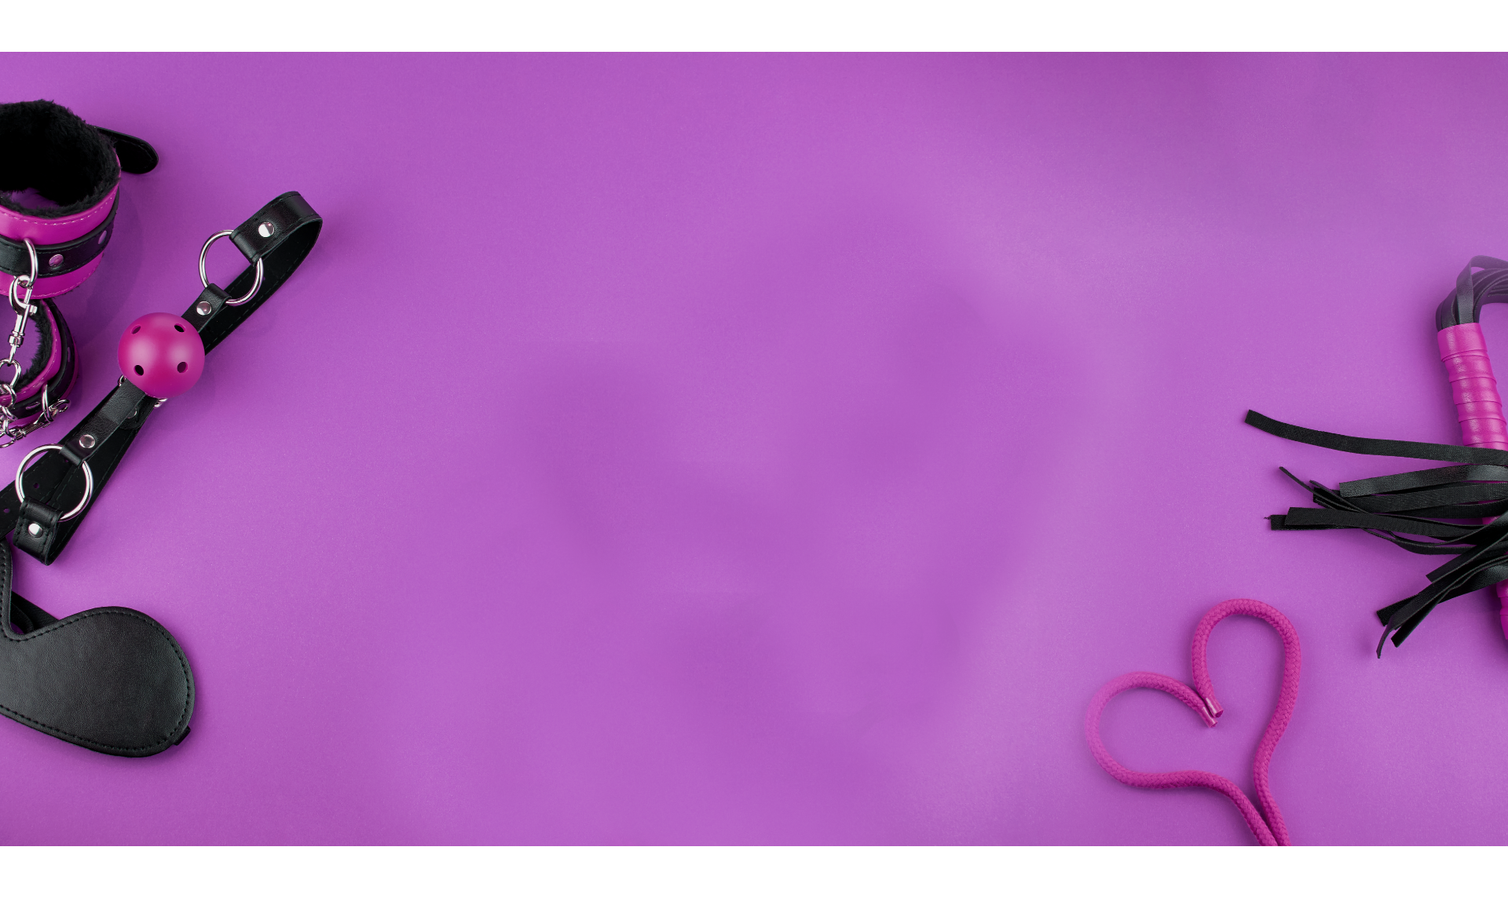
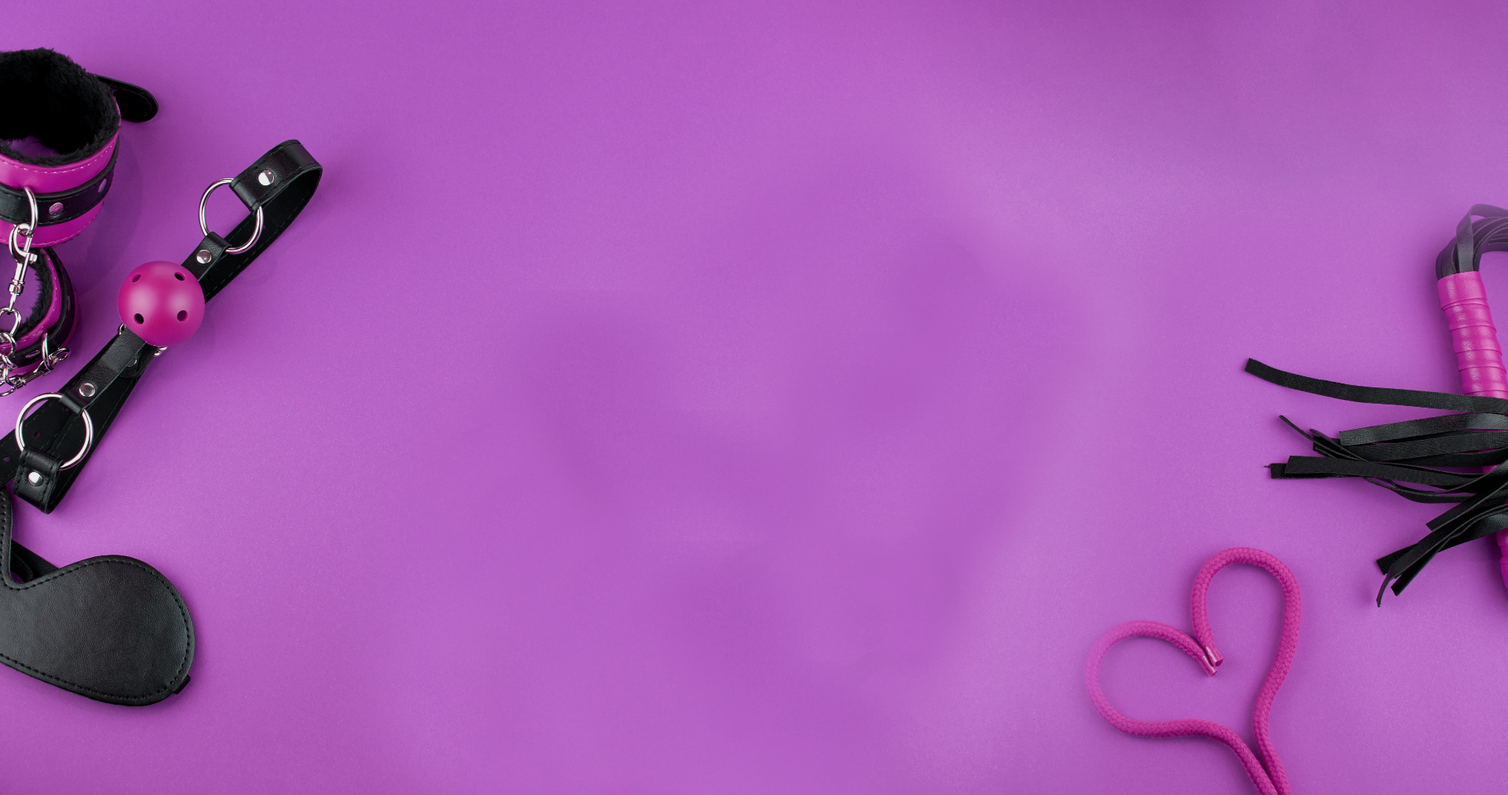
responsive

Changed region(s): [[0.0, 0.0, 1.0, 1.0], [0.8438, 0.2451, 1.0, 0.7964], [0.8125, 0.4595, 0.875, 0.4901]]

diff --git a/index.html b/index.html
@@ -12,7 +12,7 @@
 
 <body>
     <script src="assets/js/header.js"></script>
-    <section class="bg-dark py-md-5 py-3 banner">
+    <section class="bg-dark py-md-5 py-4 banner">
         <div class="container">
             <div class="row justify-content-center mx-auto align-items-center py-md-5 ">
                 <div class="col-xxl-8 col-xl-10 col-12 text-center py-md-5 ">
@@ -23,14 +23,14 @@
                         </p>
                     </h1>
 
-                    <a href="javascript:void(0)" class="btn-1 text-white fs-5 px-md-5 px-3 py-3">View more</a>
+                    <a href="javascript:void(0)" class="btn-1 text-white fs-5 px-md-5 px-3 py-md-3 py-2 d-inline-block">View more</a>
 
                 </div>
             </div>
         </div>
     </section>
 
-    <section class=" py-md-5 py-3">
+    <section class=" py-md-5 py-4">
         <div class="container">
             <div class="row justify-content-center mx-auto align-items-center py-md-5">
                 <div class="col-xxl-4 col-xl-5 col-md-6">
@@ -52,14 +52,14 @@
                         also available to perform in these short films. Check out our upcoming actors and submit your idea on our Customs page. Let us help bring your fantasy to life!
                     </p>
 
-                    <a href="javascript:void(0)" class="btn-1 text-white fs-5 px-md-5 px-3 py-3">View more</a>
+                    <a href="javascript:void(0)" class="btn-1 text-white fs-5 px-md-5 px-3 py-md-3 py-2 d-inline-block">View more</a>
 
                 </div>
             </div>
         </div>
     </section>
 
-    <section class="bg-green-voilet-1 py-md-5 py-3">
+    <section class="bg-green-voilet-1 py-md-5 py-4">
         <div class="container">
             <div class="row justify-content-center align-items-center py-md-5">
                 <div class="col-xxl-8 col-xl-10 col-12 text-center text-white">
@@ -101,8 +101,8 @@
                         </div>
                     </div>
 
-                    <a href="javascript:void(0)" class="btn-1 text-white fs-5 px-md-5 px-3 py-3">View more</a>
-                    <a href="jaavscript:void(0)" class="btn-3 fs-5 px-md-5 px-3 py-3 color-green-voilet-1">Custom Order</a>
+                    <a href="javascript:void(0)" class="btn-1 text-white fs-5 px-md-5 px-3 py-md-3 py-2 d-inline-block">View more</a>
+                    <a href="jaavscript:void(0)" class="btn-3 fs-5 px-md-5 px-3 py-md-3 py-2 color-green-voilet-1 d-inline-block">Custom Order</a>
 
                 </div>
             </div>
@@ -113,11 +113,11 @@
         <div class="container">
             <div class="row justify-content-center align-items-center py-md-5">
                 <div class="col-xxl-8 col-xl-10 col-12 text-center">
-                    <p class="fs-2 mb-2 ">
-                        recently
+                    <p class="fs-2 mb-md-2 mb-0 ">
+                        Recently
                     </p>
                     <p class="display-1 mb-md-5">
-                        released clips
+                        Released clips
                     </p>
 
                     <div class="clip-slider">
@@ -164,7 +164,7 @@
         </div>
     </section>
 
-    <section class="bg-dark py-md-5 py-3">
+    <section class="bg-dark py-md-5 py-4">
         <div class="container">
             <div class="row justify-content-center align-items-center py-md-5">
                 <div class="col-xxl-8 col-xl-10 col-12 text-center text-white">
@@ -175,14 +175,14 @@
                         upcoming shoot
                     </p>
                     <p class="mb-0">
-                        <a href="jaavscript:void(0)" class="btn-3 fs-5 px-md-5 px-3 py-3 color-green-voilet-1">View more</a>
+                        <a href="jaavscript:void(0)" class="btn-3 fs-5 px-md-5 px-3 py-md-3 py-2 color-green-voilet-1 d-inline-block">View more</a>
                     </p>
                 </div>
             </div>
         </div>
     </section>
 
-    <section class="bg-light py-md-5 py-3">
+    <section class="bg-light py-md-5 py-4">
         <div class="container">
             <div class="row justify-content-center align-items-center">
                 <div class="col-xxl-8 col-xl-10 col-12 text-center">
@@ -216,13 +216,13 @@
                 <div class="col-xxl-8 col-xl-10 col-12">
                     <div class="row row-cols-md-2 row-cols-1 justify-content-center align-items-center mb-md-3">
                         <div class="col">
-                            <p class="mb-0 display-5">frequently asked
+                            <p class="mb-md-0  display-5">frequently asked
                                 <br>
                                 <span class="display-1">questions</span>
                             </p>
                         </div>
                         <div class="col">
-                            <div class="card card-body rounded-16 box-shadow-1 border-0 p-md-4 p-2">
+                            <div class="card card-body rounded-16 box-shadow-1 border-0 p-md-4 p-2 mb-md-0 mb-3">
                                 <span class="fw-600"><img src="assets/images/question-circle.svg" class="img-fluid pe-3" alt="">  Who is Available? When?</span>
                                 <p class="mb-0 py-2">
                                     All the information that you need is right on our Upcoming Talent Page. We have scheduled shoots and actors on a waitlist.
@@ -230,9 +230,9 @@
                             </div>
                         </div>
                     </div>
-                    <div class="row row-cols-md-2 row-cols-1 justify-content-center align-items-center">
+                    <div class="row row-cols-md-2 row-cols-1 justify-content-center align-items-center ">
                         <div class="col">
-                            <div class="card card-body rounded-16 box-shadow-1 border-0 p-md-4 p-2">
+                            <div class="card card-body rounded-16 box-shadow-1 border-0 p-md-4 p-2 mb-md-0 mb-3">
                                 <span class="fw-600"><img src="assets/images/question-circle.svg" class="img-fluid pe-3" alt="">  Who is Available? When?</span>
                                 <p class="mb-0 py-2">
                                     All the information that you need is right on our Upcoming Talent Page. We have scheduled shoots and actors on a waitlist.
@@ -240,7 +240,7 @@
                             </div>
                         </div>
                         <div class="col">
-                            <div class="card card-body rounded-16 box-shadow-1 border-0 p-md-4 p-2">
+                            <div class="card card-body rounded-16 box-shadow-1 border-0 p-md-4 p-2 mb-md-0 mb-3">
                                 <span class="fw-600"><img src="assets/images/question-circle.svg" class="img-fluid pe-3" alt="">  Who is Available? When?</span>
                                 <p class="mb-0 py-2">
                                     All the information that you need is right on our Upcoming Talent Page. We have scheduled shoots and actors on a waitlist.
@@ -253,29 +253,29 @@
             </div>
             <div class="col-12">
                 <p class="mb-0 text-center mt-md-4 mt-2">
-                    <a href="javascript:void(0)" class="btn-1 text-white fs-5 px-md-5 px-3 py-3">View more</a>
+                    <a href="javascript:void(0)" class="btn-1 text-white fs-5 px-md-5 px-3 py-md-3 py-2">View more</a>
                 </p>
             </div>
         </div>
     </section>
 
-    <section class="bg-contact py-md-5 py-3">
+    <section class="bg-contact py-md-5 py-4">
         <div class="container">
             <div class="row justify-content-center align-items-center">
                 <div class="col-xxl-8 col-xl-10 col-12 text-center">
                     <p class="display-6 fw-600 text-white">Contact Us</p>
-                    <form class="row row-cols-md-3">
+                    <form class="row row-cols-md-3 row-cols-1">
                         <div class="my-2 col">
-                            <input type="text" class="form-control p-md-3 p-2 border-0 rounded-32" id="" placeholder="First Name*">
+                            <input type="text" class="form-control p-3 border-0 rounded-32" id="" placeholder="First Name*">
                         </div>
                         <div class="my-2 col">
-                            <input type="email" class="form-control p-md-3 p-2 border-0 rounded-32" id="" placeholder="Email*">
+                            <input type="email" class="form-control p-3 border-0 rounded-32" id="" placeholder="Email*">
                         </div>
                         <div class="my-2 col">
-                            <input type="text" class="form-control p-md-3 p-2 border-0 rounded-32" id="" placeholder="Subject*">
+                            <input type="text" class="form-control p-3 border-0 rounded-32" id="" placeholder="Subject*">
                         </div>
                         <div class="my-2 col-12">
-                            <textarea rows="10" class="form-control p-md-3 p-2 border-0 rounded-32" id="" placeholder="Type your message here!"></textarea>
+                            <textarea rows="10" class="form-control p-3 border-0 rounded-32" id="" placeholder="Type your message here!"></textarea>
                             <button type="submit" class="btn-2 w-100 fs-2 my-md-4 my-2  text-white border-0 py-2">Connect with us now</button>
                         </div>
 

diff --git a/reviews.html b/reviews.html
@@ -31,7 +31,7 @@
                     <p class=" display-1 text-center">Client Reviews</p>
                     <div class="row row-cols-md-3 row-cols-1 justify-content-center align-items-center mb-md-3">
                         <div class="col">
-                            <div class="card card-body rounded-16 box-shadow-1 border-0 p-md-4 p-2 mb-md-4 mb-2 text-center">
+                            <div class="card card-body rounded-16 box-shadow-1 border-0 p-md-4 p-2 mb-md-4 mb-3 text-center">
                                 <p class="text-center">
                                     <img src="assets/images/star.svg" class="w-50" alt="star">
                                 </p>
@@ -42,7 +42,7 @@
                             </div>
                         </div>
                         <div class="col">
-                            <div class="card card-body rounded-16 box-shadow-1 border-0 p-md-4 p-2 mb-md-4 mb-2 text-center">
+                            <div class="card card-body rounded-16 box-shadow-1 border-0 p-md-4 p-2 mb-md-4 mb-3 text-center">
                                 <p class="text-center">
                                     <img src="assets/images/star.svg" class="w-50" alt="star">
                                 </p>
@@ -53,7 +53,7 @@
                             </div>
                         </div>
                         <div class="col">
-                            <div class="card card-body rounded-16 box-shadow-1 border-0 p-md-4 p-2 mb-md-4 mb-2 text-center">
+                            <div class="card card-body rounded-16 box-shadow-1 border-0 p-md-4 p-2 mb-md-4 mb-3 text-center">
                                 <p class="text-center">
                                     <img src="assets/images/star.svg" class="w-50" alt="star">
                                 </p>
@@ -64,7 +64,7 @@
                             </div>
                         </div>
                         <div class="col">
-                            <div class="card card-body rounded-16 box-shadow-1 border-0 p-md-4 p-2 mb-md-4 mb-2 text-center">
+                            <div class="card card-body rounded-16 box-shadow-1 border-0 p-md-4 p-2 mb-md-4 mb-3 text-center">
                                 <p class="text-center">
                                     <img src="assets/images/star.svg" class="w-50" alt="star">
                                 </p>
@@ -75,7 +75,7 @@
                             </div>
                         </div>
                         <div class="col">
-                            <div class="card card-body rounded-16 box-shadow-1 border-0 p-md-4 p-2 mb-md-4 mb-2 text-center">
+                            <div class="card card-body rounded-16 box-shadow-1 border-0 p-md-4 p-2 mb-md-4 mb-3 text-center">
                                 <p class="text-center">
                                     <img src="assets/images/star.svg" class="w-50" alt="star">
                                 </p>
@@ -86,7 +86,7 @@
                             </div>
                         </div>
                         <div class="col">
-                            <div class="card card-body rounded-16 box-shadow-1 border-0 p-md-4 p-2 mb-md-4 mb-2 text-center">
+                            <div class="card card-body rounded-16 box-shadow-1 border-0 p-md-4 p-2 mb-md-4 mb-3 text-center">
                                 <p class="text-center">
                                     <img src="assets/images/star.svg" class="w-50" alt="star">
                                 </p>
@@ -97,7 +97,7 @@
                             </div>
                         </div>
                         <div class="col">
-                            <div class="card card-body rounded-16 box-shadow-1 border-0 p-md-4 p-2 mb-md-4 mb-2 text-center">
+                            <div class="card card-body rounded-16 box-shadow-1 border-0 p-md-4 p-2 mb-md-4 mb-3 text-center">
                                 <p class="text-center">
                                     <img src="assets/images/star.svg" class="w-50" alt="star">
                                 </p>
@@ -108,7 +108,7 @@
                             </div>
                         </div>
                         <div class="col">
-                            <div class="card card-body rounded-16 box-shadow-1 border-0 p-md-4 p-2 mb-md-4 mb-2 text-center">
+                            <div class="card card-body rounded-16 box-shadow-1 border-0 p-md-4 p-2 mb-md-4 mb-3 text-center">
                                 <p class="text-center">
                                     <img src="assets/images/star.svg" class="w-50" alt="star">
                                 </p>
@@ -119,7 +119,7 @@
                             </div>
                         </div>
                         <div class="col">
-                            <div class="card card-body rounded-16 box-shadow-1 border-0 p-md-4 p-2 mb-md-4 mb-2 text-center">
+                            <div class="card card-body rounded-16 box-shadow-1 border-0 p-md-4 p-2 mb-md-4 mb-3 text-center">
                                 <p class="text-center">
                                     <img src="assets/images/star.svg" class="w-50" alt="star">
                                 </p>

diff --git a/assets/js/footer.js b/assets/js/footer.js
@@ -1,1 +1,1 @@
-document.writeln(' <footer class="bg-dark pt-md-5 py-3"> <div class="container"> <div class="row justify-content-center align-items-center mx-auto text-center"> <div class="col text-center"> <img src="assets/images/logo.svg" class="img-fluid" alt=""> <div class="nav text-center justify-content-center py-3"> <a href="index.html" class="text-white d-inline-block px-md-4 px-2">Home</a> <a href="video.html" class="text-white d-inline-block px-md-4 px-2">Videos </a> <a href="faqs.html" class="text-white d-inline-block px-md-4 px-2">FAQ’s</a> <a href="reviews.html" class="text-white d-inline-block px-md-4 px-2">Reviews</a> <a href="custom.html" class="text-white d-inline-block px-md-4 px-2">Customs</a> <a href="javascript:void(0)" class="text-white d-inline-block px-md-4 px-2">Newsletter Sign Up</a> <a href="contact.html" class="text-white d-inline-block px-md-4 px-2">Contact Us</a> </div><div class="social py-md-4 py-3 mb-md-5 mb-0"> <a href="javascript:void(0)" target="_blank" class="text-white d-inline-block px-md-3 px-2"><img src="assets/images/fb.svg" class="img-fluid" alt=""></a> <a href="javascript:void(0)" target="_blank" class="text-white d-inline-block px-md-3 px-2"><img src="assets/images/insta.svg" class="img-fluid" alt=""></a> <a href="javascript:void(0)" target="_blank" class="text-white d-inline-block px-md-3 px-2"><img src="assets/images/twitter.svg" class="img-fluid" alt=""></a> <a href="javascript:void(0)" target="_blank" class="text-white d-inline-block px-md-3 px-2"><img src="assets/images/mail.svg" class="img-fluid" alt=""></a> </div><p class="border-top text-white mb-0 py-3"> 2022 Fetishland Studios. All rights reserved. </p></div></div></div></footer>');
+document.writeln(' <footer class="bg-dark pt-md-5 py-3"> <div class="container"> <div class="row justify-content-center align-items-center mx-auto text-center"> <div class="col text-center"> <img src="assets/images/logo.svg" class="img-fluid" alt=""> <div class="nav flex-md-row flex-column text-center justify-content-center py-3"> <a href="index.html" class="text-white d-inline-block px-md-4 px-2">Home</a> <a href="video.html" class="text-white d-inline-block px-md-4 px-2">Videos </a> <a href="faqs.html" class="text-white d-inline-block px-md-4 px-2">FAQ’s</a> <a href="reviews.html" class="text-white d-inline-block px-md-4 px-2">Reviews</a> <a href="custom.html" class="text-white d-inline-block px-md-4 px-2">Customs</a> <a href="javascript:void(0)" class="text-white d-inline-block px-md-4 px-2">Newsletter Sign Up</a> <a href="contact.html" class="text-white d-inline-block px-md-4 px-2">Contact Us</a> </div><div class="d-flex justify-content-center social py-md-4 py-3 mb-md-5 mb-0"> <a href="javascript:void(0)" target="_blank" class="text-white d-inline-block px-md-3 px-2"><img src="assets/images/fb.svg" class="img-fluid" alt=""></a> <a href="javascript:void(0)" target="_blank" class="text-white d-inline-block px-md-3 px-2"><img src="assets/images/insta.svg" class="img-fluid" alt=""></a> <a href="javascript:void(0)" target="_blank" class="text-white d-inline-block px-md-3 px-2"><img src="assets/images/twitter.svg" class="img-fluid" alt=""></a> <a href="javascript:void(0)" target="_blank" class="text-white d-inline-block px-md-3 px-2"><img src="assets/images/mail.svg" class="img-fluid" alt=""></a> </div><p class="border-top text-white mb-0 py-3"> 2022 Fetishland Studios. All rights reserved. </p></div></div></div></footer>');

diff --git a/custom.html b/custom.html
@@ -16,26 +16,26 @@
     <section class="pt-md-5 mt-md-5 py-0 mt-3">
         <div class="container">
             <div class="row justify-content-center align-items-center mt-md-5 ">
-                <div class="col-xl-10 col-12 mt-md-5 border-bottom pb-md-5">
+                <div class="col-xl-10 col-12 mt-md-5 border-bottom pb-md-5 pb-3">
                     <div class="row row-cols-md-2 row-cols-1">
                         <div class="col">
                             <img src="assets/images/box.png" width="100%" height="550" class="rounded-16" alt="box">
                         </div>
                         <div class="col">
-                            <h2 class="display-4">Carmen Valentina</h2>
-                            <h3 class="fs-4 text-dark">Availability:</h3>
-                            <p class="color-grey-dark">Solo, Or any combination of Local, Traveling or Male Talent</p>
-                            <p class="color-green-voilet-1 fs-4">About her</p>
+                            <h2 class="display-4 mb-md-2 mb-1">Carmen Valentina</h2>
+                            <h3 class="fs-4 text-dark mb-md-2 mb-1">Availability:</h3>
+                            <p class="color-grey-dark mb-md-2 mb-1">Solo, Or any combination of Local, Traveling or Male Talent</p>
+                            <p class="color-green-voilet-1 fs-4 mb-md-2 mb-1">About her</p>
                             <ul class="color-grey-dark">
-                                <li class="py-2">MODEL STATS</li>
-                                <li class="py-2">Height: 5’6″</li>
-                                <li class="py-2">Weight: 125</li>
-                                <li class="py-2">Measurements: 31B-25-35</li>
-                                <li class="py-2">Shoe Size: 7</li>
-                                <li class="py-2">Dress Size: 0</li>
-                                <li class="py-2">Attributes: Great Actress!</li>
+                                <li class="py-md-2 py-1">MODEL STATS</li>
+                                <li class="py-md-2 py-1">Height: 5’6″</li>
+                                <li class="py-md-2 py-1">Weight: 125</li>
+                                <li class="py-md-2 py-1">Measurements: 31B-25-35</li>
+                                <li class="py-md-2 py-1">Shoe Size: 7</li>
+                                <li class="py-md-2 py-1">Dress Size: 0</li>
+                                <li class="py-md-2 py-1">Attributes: Great Actress!</li>
                             </ul>
-                            <button class="btn-1 text-white px-md-5 px-2 py-3 border-0">Order a Custom with Me</button>
+                            <button class="btn-1 text-white px-md-5 px-2 py-md-3 py-2 border-0">Order a Custom with Me</button>
                         </div>
                     </div>
                 </div>

diff --git a/video.html b/video.html
@@ -32,7 +32,7 @@
                     <div class="row row-cols-md-3 row-cols-1">
                         <div class="col-12">
                             <form action="" class="row pb-md-4">
-                                <div class="col-md-3">
+                                <div class="col-md-3 mb-md-0 mb-3 ">
                                     <select class="form-select rounded-32" aria-label="Default select example">
                                                 <option selected class="color-grey">All Categories</option>
                                                 <option value="1">One</option>
@@ -40,13 +40,13 @@
                                                 <option value="3">Three</option>
                                             </select>
                                 </div>
-                                <div class="col-md-4 position-relative">
+                                <div class="col-md-4 mb-md-0 mb-3 position-relative">
                                     <label for="" class="position-absolute img-fluid search-field">
                                         <img src="assets/images/search.svg" class=""  alt="search">
                                     </label>
                                     <input type="search" class="form-control ps-5  rounded-32" id="" placeholder="Search the store">
                                 </div>
-                                <div class="col-md-3">
+                                <div class="col-md-3 mb-md-0 mb-3">
                                     <select class="form-select rounded-32" aria-label="Default select example">
                                                 <option selected class="color-grey">Other Stores</option>
                                                 <option value="1">One</option>
@@ -54,7 +54,7 @@
                                                 <option value="3">Three</option>
                                             </select>
                                 </div>
-                                <div class="col-md-2">
+                                <div class="col-md-2 mb-md-0 mb-3">
                                     <button type="submit" class="btn-2 w-100  text-white border-0 py-2">Search</button>
                                 </div>
                             </form>

diff --git a/contact.html b/contact.html
@@ -29,18 +29,18 @@
             <div class="row justify-content-center align-items-center">
                 <div class="col-xxl-8 col-xl-10 col-12 text-center">
                     <p class="display-1">Contact Us Now</p>
-                    <form class="row row-cols-md-3">
+                    <form class="row row-cols-md-3 row-cols-1">
                         <div class="my-2 col">
-                            <input type="text" class="form-control p-md-3 p-2 field-shadow rounded-32" id="" placeholder="First Name*">
+                            <input type="text" class="form-control p-3 field-shadow rounded-32" id="" placeholder="First Name*">
                         </div>
                         <div class="my-2 col">
-                            <input type="email" class="form-control p-md-3 p-2 field-shadow rounded-32" id="" placeholder="Email*">
+                            <input type="email" class="form-control p-3 field-shadow rounded-32" id="" placeholder="Email*">
                         </div>
                         <div class="my-2 col">
-                            <input type="text" class="form-control p-md-3 p-2 field-shadow rounded-32" id="" placeholder="Subject*">
+                            <input type="text" class="form-control p-3 field-shadow rounded-32" id="" placeholder="Subject*">
                         </div>
                         <div class="my-2 col-12">
-                            <textarea rows="10" class="form-control p-md-3 p-2 field-shadow rounded-32" id="" placeholder="Type your message here!"></textarea>
+                            <textarea rows="10" class="form-control p-3 field-shadow rounded-32" id="" placeholder="Type your message here!"></textarea>
                             <button type="submit" class="btn-2 w-100 fs-2 my-md-4 my-2  text-white border-0 py-2">Connect with us now</button>
                         </div>
 

diff --git a/assets/css/theme.css b/assets/css/theme.css
@@ -135,6 +135,7 @@ input:focus-within {
     background-position: center;
     background-repeat: no-repeat;
     background-size: cover;
+    height: 100vh;
 }
 
 
@@ -177,11 +178,20 @@ input:focus-within {
         filter: invert(1);
     }
     /*NAVBAR CANVAS END*/
-    /*NAVBAR THEME CSS*/
+    /*THEME CSS*/
     .navbar-brand {
         position: relative;
         left: 0;
         top: 0;
+    }
+    .banner h1 {
+        line-height: normal;
+    }
+    .sqaure::after {
+        height: 340px;
+    }
+    .fs-18 {
+        font-size: 16px;
     }
 }
 
